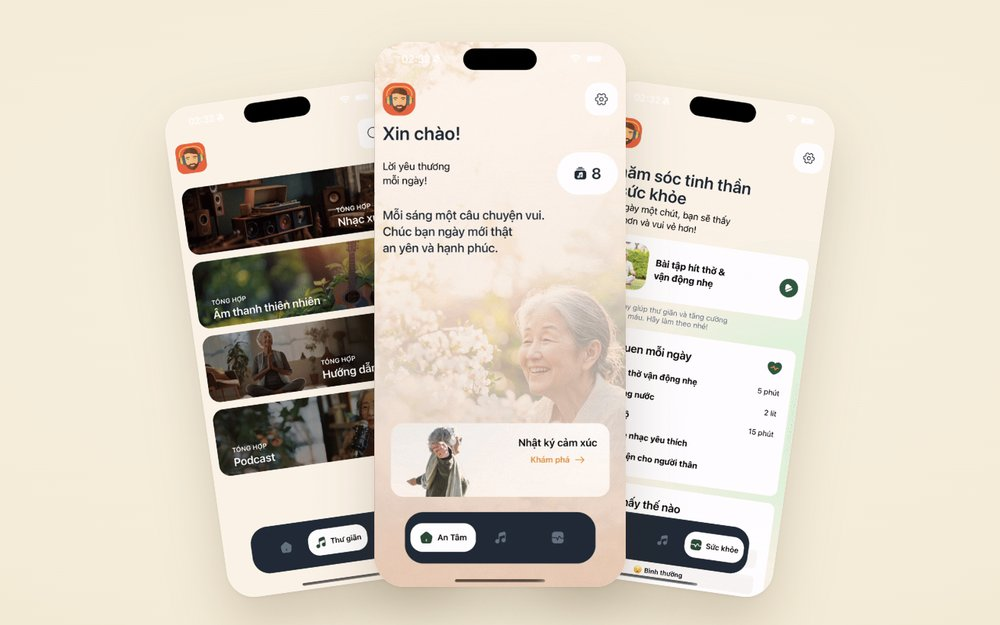
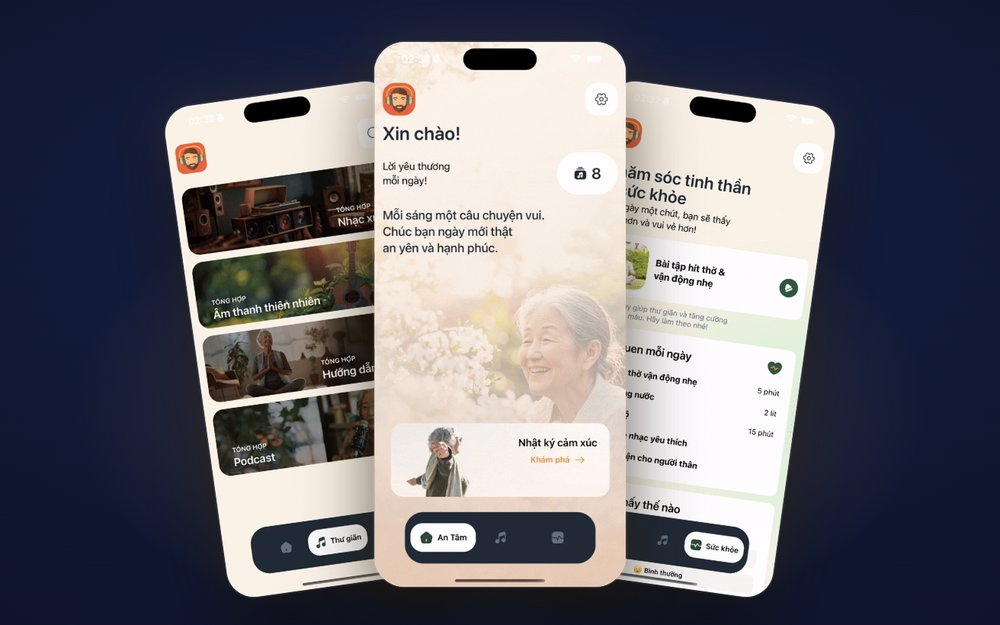
Redesign Projects: alternating showcases, facts, This website terminal tile; night-theme covers

diff --git a/projects.html b/projects.html
@@ -7,12 +7,12 @@
   <meta name="description" content="Apps and projects by Thong Thai.">
   <link rel="preconnect" href="https://fonts.googleapis.com">
   <link rel="preconnect" href="https://fonts.gstatic.com" crossorigin>
-  <link href="https://fonts.googleapis.com/css2?family=Inter:wght@400;600&family=Lora:wght@600;700&display=swap" rel="stylesheet">
+  <link href="https://fonts.googleapis.com/css2?family=Instrument+Serif:ital@0;1&family=Inter:wght@400;500;600&family=JetBrains+Mono:wght@400;500&display=swap" rel="stylesheet">
   <link rel="icon" href="assets/favicon.svg" type="image/svg+xml">
   <link rel="stylesheet" href="css/style.css">
   <script src="js/site.js" defer></script>
 </head>
-<body>
+<body data-page="projects" data-chibi="laptop">
   <a class="skip-link" href="#main-content">Skip to content</a>
   <header>
     <div class="wide">
@@ -30,45 +30,76 @@
 
   <main id="main-content" tabindex="-1">
     <div class="wide">
-      <h1>Projects</h1>
-      <p class="tagline">Things I’ve built, and what I did on each one.</p>
+      <section class="page-head" data-chibi="wave" aria-labelledby="projects-title">
+        <h1 id="projects-title">My <em>projects</em></h1>
+        <p class="tagline">Things I’ve built, and what I did on each one.</p>
+      </section>
 
-      <div class="cards">
-        <article class="card">
-          <div class="thumb"><img src="assets/img/gp-cover.jpg" width="1000" height="625" alt="Three Golden Peace screens side by side: the Relax tab with large photo tiles, the home screen with a big ‘Xin chào!’ greeting, and the daily health checklist."></div>
-          <div class="body">
-            <h2>Golden Peace</h2>
-            <p>A mobile app for older adults in Vietnam to track emotions, relax with music and meditation, and keep healthy daily habits.</p>
-            <p><strong>My contribution:</strong> I founded and led the 4-person team, ran research with 120+ older adults and care staff at 4 senior care centers, and designed the accessible UI in Figma.</p>
-            <ul class="tags" aria-label="Technologies">
-              <li>React Native</li><li>Expo</li><li>TypeScript</li><li>Supabase</li><li>Figma</li>
-            </ul>
-            <div class="links">
-              <a href="golden-peace.html">Case study</a>
-              <a href="https://github.com/NotWutLit/golden-peace-app">Code on GitHub</a>
-            </div>
+      <article class="showcase" data-chibi="laptop" aria-labelledby="gp-title">
+        <div class="media spot" data-tilt="3">
+          <img class="vt-gp" src="assets/img/gp-cover.jpg" width="1000" height="625" alt="Three Golden Peace screens side by side: the Relax tab with large photo tiles, the home screen with a big ‘Xin chào!’ greeting, and the daily health checklist.">
+          <button class="key dim" type="button" data-key="projects" style="right:14px;bottom:14px"></button>
+        </div>
+        <div class="info">
+          <h2 id="gp-title">Golden Peace</h2>
+          <p>A mobile app for older adults in Vietnam to track emotions, relax with music and meditation, and keep healthy daily habits.</p>
+          <p><strong>My contribution:</strong> I founded and led the 4-person team, ran research with 120+ older adults and care staff at 4 senior care centers, and designed the accessible UI in Figma.</p>
+          <dl class="facts">
+            <div><dt>Role</dt><dd>Owner &amp; developer</dd></div>
+            <div><dt>Team</dt><dd>4 students</dd></div>
+            <div><dt>Timeline</dt><dd>May 2025 – now</dd></div>
+          </dl>
+          <ul class="tags" aria-label="Technologies"><li>React Native</li><li>Expo</li><li>TypeScript</li><li>Supabase</li><li>Figma</li></ul>
+          <div class="actions">
+            <a class="btn" href="golden-peace.html">Read the case study <span class="arrow" aria-hidden="true">→</span></a>
+            <a class="btn ghost" href="https://github.com/NotWutLit/golden-peace-app">Code on GitHub</a>
           </div>
-        </article>
+        </div>
+      </article>
 
-        <article class="card">
+      <article class="showcase flip-side" data-chibi="read" aria-labelledby="rm-title">
+        <div class="media spot" data-tilt="3">
           <!-- Illustration of the app's idea (the repo has no screenshots yet). Swap in a real screenshot when you have one. -->
-          <div class="thumb"><img src="assets/img/rm-cover.png" width="1000" height="625" loading="lazy"
-               alt="Illustration of a Remember Me entry: a letter that begins 'Dear Grandma,' with a photo and a song attached."></div>
-          <div class="body">
-            <h2>Remember Me</h2>
-            <p>A diary app for people living with Alzheimer’s. Each entry is a short letter that starts "Dear…", with a photo and a song attached, so the people and moments that matter are easy to revisit.</p>
-            <p><strong>My contribution:</strong> I led a 3-person team researching Alzheimer’s care and designed the prototypes, keeping navigation simple and daily inputs easy for users with memory impairments.</p>
-            <ul class="tags" aria-label="Technologies">
-              <li>Flutter</li><li>FlutterFlow</li><li>Firebase</li><li>Figma</li>
-            </ul>
-            <div class="links">
-              <a href="https://github.com/NotWutLit/remember-me-app">Code on GitHub</a>
-            </div>
+          <img src="assets/img/rm-cover.jpg" width="1000" height="625" loading="lazy" alt="Illustration of a Remember Me entry: a letter that begins ‘Dear Grandma,’ with a photo and a song attached.">
+        </div>
+        <div class="info">
+          <h2 id="rm-title">Remember Me</h2>
+          <p>A diary app for people living with Alzheimer’s. Each entry is a short letter that starts “Dear…”, with a photo and a song attached, so the people and moments that matter are easy to revisit.</p>
+          <p><strong>My contribution:</strong> I led a 3-person team researching Alzheimer’s care and designed the prototypes, keeping navigation simple and daily inputs easy for users with memory impairments.</p>
+          <dl class="facts">
+            <div><dt>Role</dt><dd>Owner &amp; developer</dd></div>
+            <div><dt>Team</dt><dd>3 students</dd></div>
+            <div><dt>Timeline</dt><dd>Oct 2024 – Feb 2025</dd></div>
+          </dl>
+          <ul class="tags" aria-label="Technologies"><li>Flutter</li><li>FlutterFlow</li><li>Firebase</li><li>Figma</li></ul>
+          <div class="actions">
+            <a class="btn ghost" href="https://github.com/NotWutLit/remember-me-app">Code on GitHub</a>
           </div>
-        </article>
+        </div>
+      </article>
 
-        <!-- Copy an <article class="card"> block above for each new project. -->
-      </div>
+      <article class="showcase" data-chibi="laptop" aria-labelledby="site-title">
+        <div class="media term-tile spot" data-tilt="3" aria-hidden="true">
+          <div class="term-bar"><i></i><i></i><i></i>thong@danang: ~/projects</div>
+          <pre><span class="p">$</span> ls
+golden-peace/   remember-me/   <b>this-website/</b>
+<span class="p">$</span> cat this-website/stack.txt
+html  css  javascript  three.js
+<span class="p">$</span> cat this-website/features.txt
+3d city of lights · escape room (5 keys)
+mini me · command palette · terminal
+<span class="p">$</span> <span class="cursor"></span></pre>
+        </div>
+        <div class="info">
+          <h2 id="site-title">This website</h2>
+          <p>The site you’re on, written by hand with plain HTML, CSS and JavaScript. The Home skyline is a 3D point cloud built from my own photo of Đà Nẵng, and there are five keys hidden around it.</p>
+          <ul class="tags" aria-label="Technologies"><li>HTML</li><li>CSS</li><li>JavaScript</li><li>Three.js</li></ul>
+          <div class="actions">
+            <a class="btn ghost" href="https://github.com/NotWutLit/NotWutLit.github.io">Code on GitHub</a>
+            <button class="btn ghost" type="button" data-open="palette">Try the command palette</button>
+          </div>
+        </div>
+      </article>
     </div>
   </main>
 
@@ -78,7 +109,7 @@
         <li><a href="mailto:thong11042008@gmail.com">Email</a></li>
         <li><a href="https://github.com/NotWutLit">GitHub</a></li>
       </ul>
-      <p>Last updated November 2026</p>
+      <p>Built by hand. No frameworks.</p>
     </div>
   </footer>
 </body>

diff --git a/css/style.css b/css/style.css
@@ -635,3 +635,30 @@ section::after { content: ""; display: table; clear: both; }
 .wide-photo { --r: -1.5deg; margin: 2rem auto 0; max-width: 560px; }
 /* second photo in the About row: tilts the other way, sits a little lower */
 .photo-row .flip:nth-child(2) { --r: 2deg; margin-top: 1.5rem; }
+
+/* ---------- Projects: alternating showcase blocks ---------- */
+.page-head { padding: 2rem 0 1rem; }
+.page-head h1 { font-size: clamp(3rem, 8vw, 5.5rem); }
+.showcase { display: grid; gap: 2rem 3.5rem; align-items: center; padding: 4.5rem 0; border-top: 1px solid var(--border); }
+.showcase:first-of-type { border-top: 0; }
+@media (min-width: 900px) {
+  .showcase { grid-template-columns: 1.15fr 1fr; }
+  .showcase.flip-side .media { order: 2; }
+}
+.media { position: relative; overflow: hidden; border-radius: 22px; border: 1px solid var(--border); background: var(--bg-2);
+  box-shadow: 0 40px 100px -40px rgba(0,0,0,.9); transition: transform .4s var(--ease-out), border-color .3s; }
+.media:hover { border-color: rgba(232,182,81,.4); }
+.media img { width: 100%; height: auto; transition: transform .7s var(--ease-out); }
+.media:hover img { transform: scale(1.035); }
+.media:hover .key.dim, .media .key.dim:focus-visible { opacity: 1; }
+.info h2 { margin: 0 0 1rem; font-size: clamp(2.4rem, 4.5vw, 3.4rem); }
+.info p { color: #D9D5CC; }
+.info .facts { margin: 1.25rem 0 1rem; }
+.info .actions { margin-bottom: 0; }
+
+/* "This website" terminal tile */
+.term-tile { background: linear-gradient(160deg, #111A38, #0B1124); font: 14px/1.75 var(--mono); }
+.term-tile pre { margin: 0; padding: 1.25rem 1.4rem 1.5rem; white-space: pre-wrap; color: #C9CEDD; font: inherit; }
+.term-tile .p { color: var(--gold); }
+.term-tile b { color: var(--gold-soft); font-weight: 500; }
+.term-tile .cursor { display: inline-block; width: .6em; height: 1.1em; vertical-align: -.2em; background: var(--gold); animation: caret-blink 1s steps(1) infinite; }

diff --git a/index.html b/index.html
@@ -104,7 +104,7 @@
           </div>
         </article>
         <article class="tile card spot b-rm" data-tilt="4">
-          <div class="thumb"><img src="assets/img/rm-cover.png" width="1000" height="625" alt="Illustration of a Remember Me entry: a letter that begins ‘Dear Grandma,’ with a photo and a song attached."></div>
+          <div class="thumb"><img src="assets/img/rm-cover.jpg" width="1000" height="625" alt="Illustration of a Remember Me entry: a letter that begins ‘Dear Grandma,’ with a photo and a song attached."></div>
           <div class="body">
             <h3>Remember Me</h3>
             <p>A diary app for people living with Alzheimer’s: letters with a photo and a song attached.</p>
